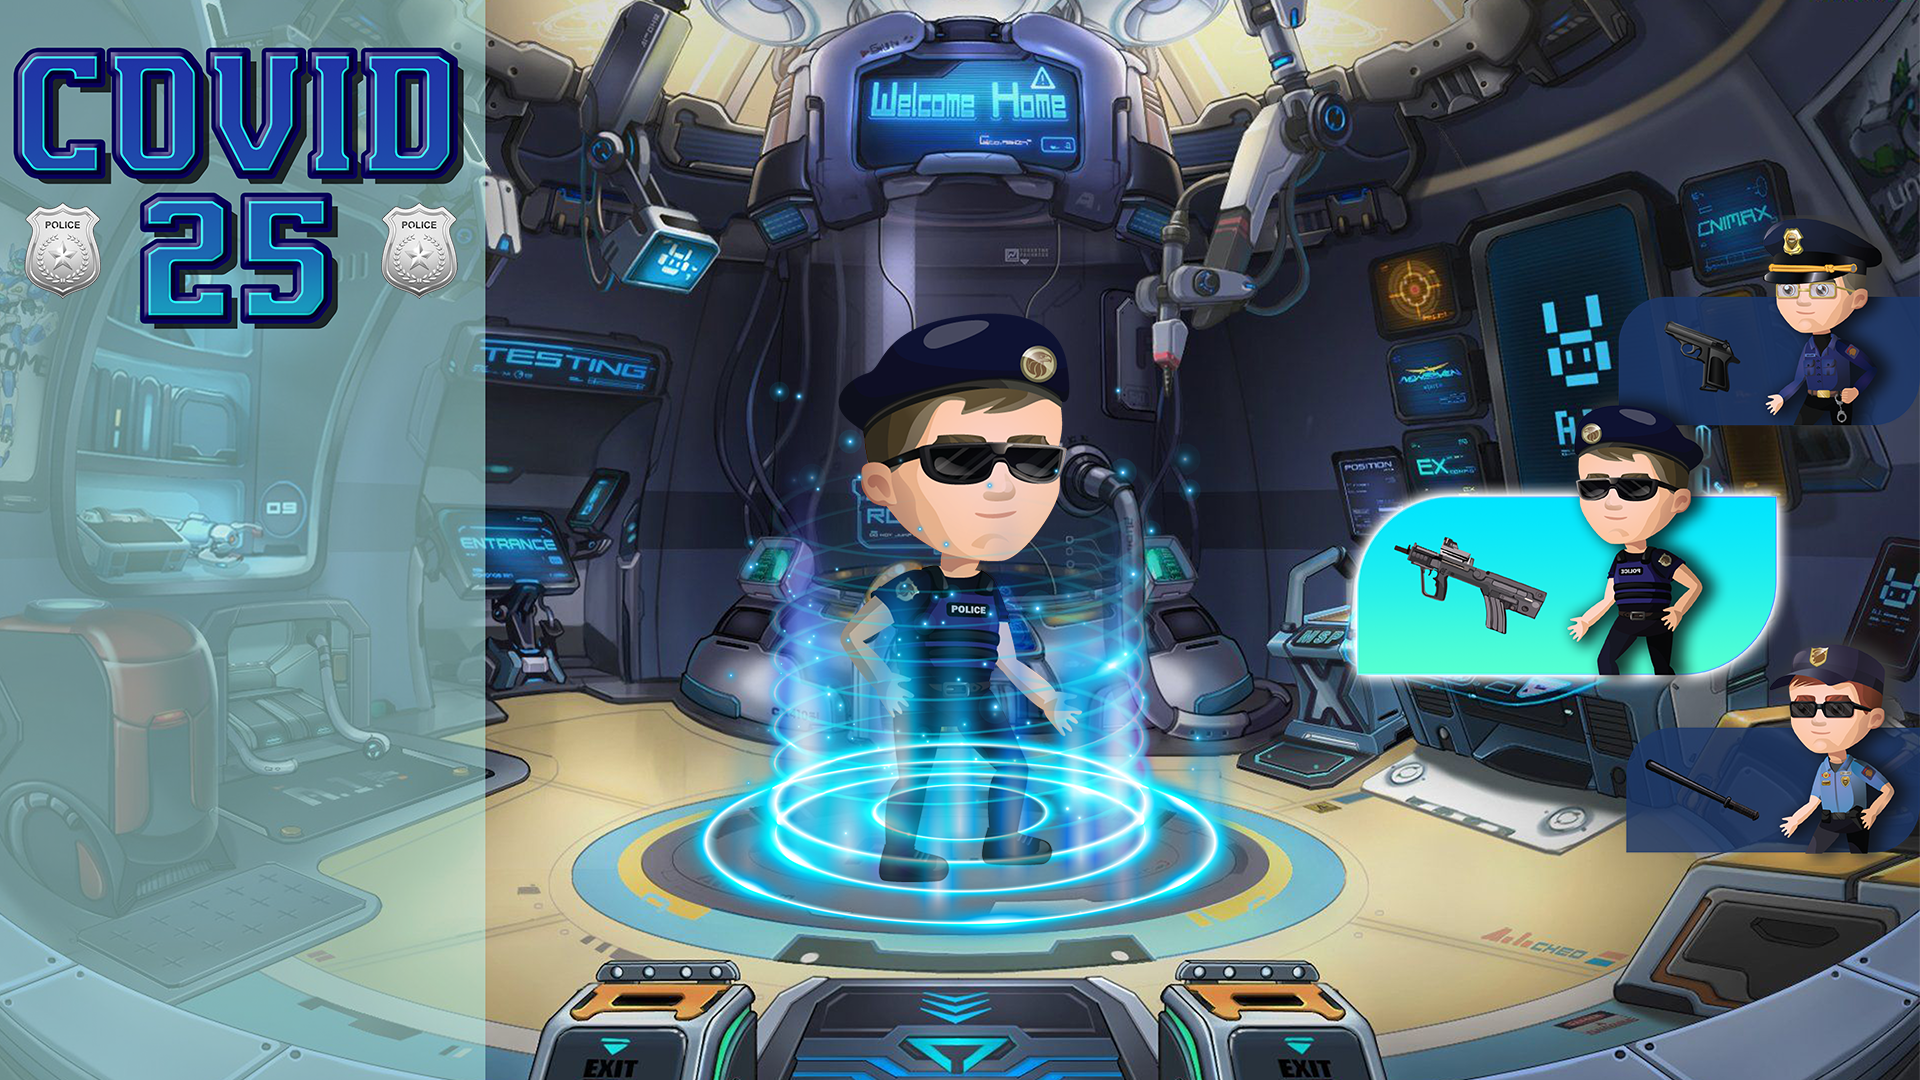
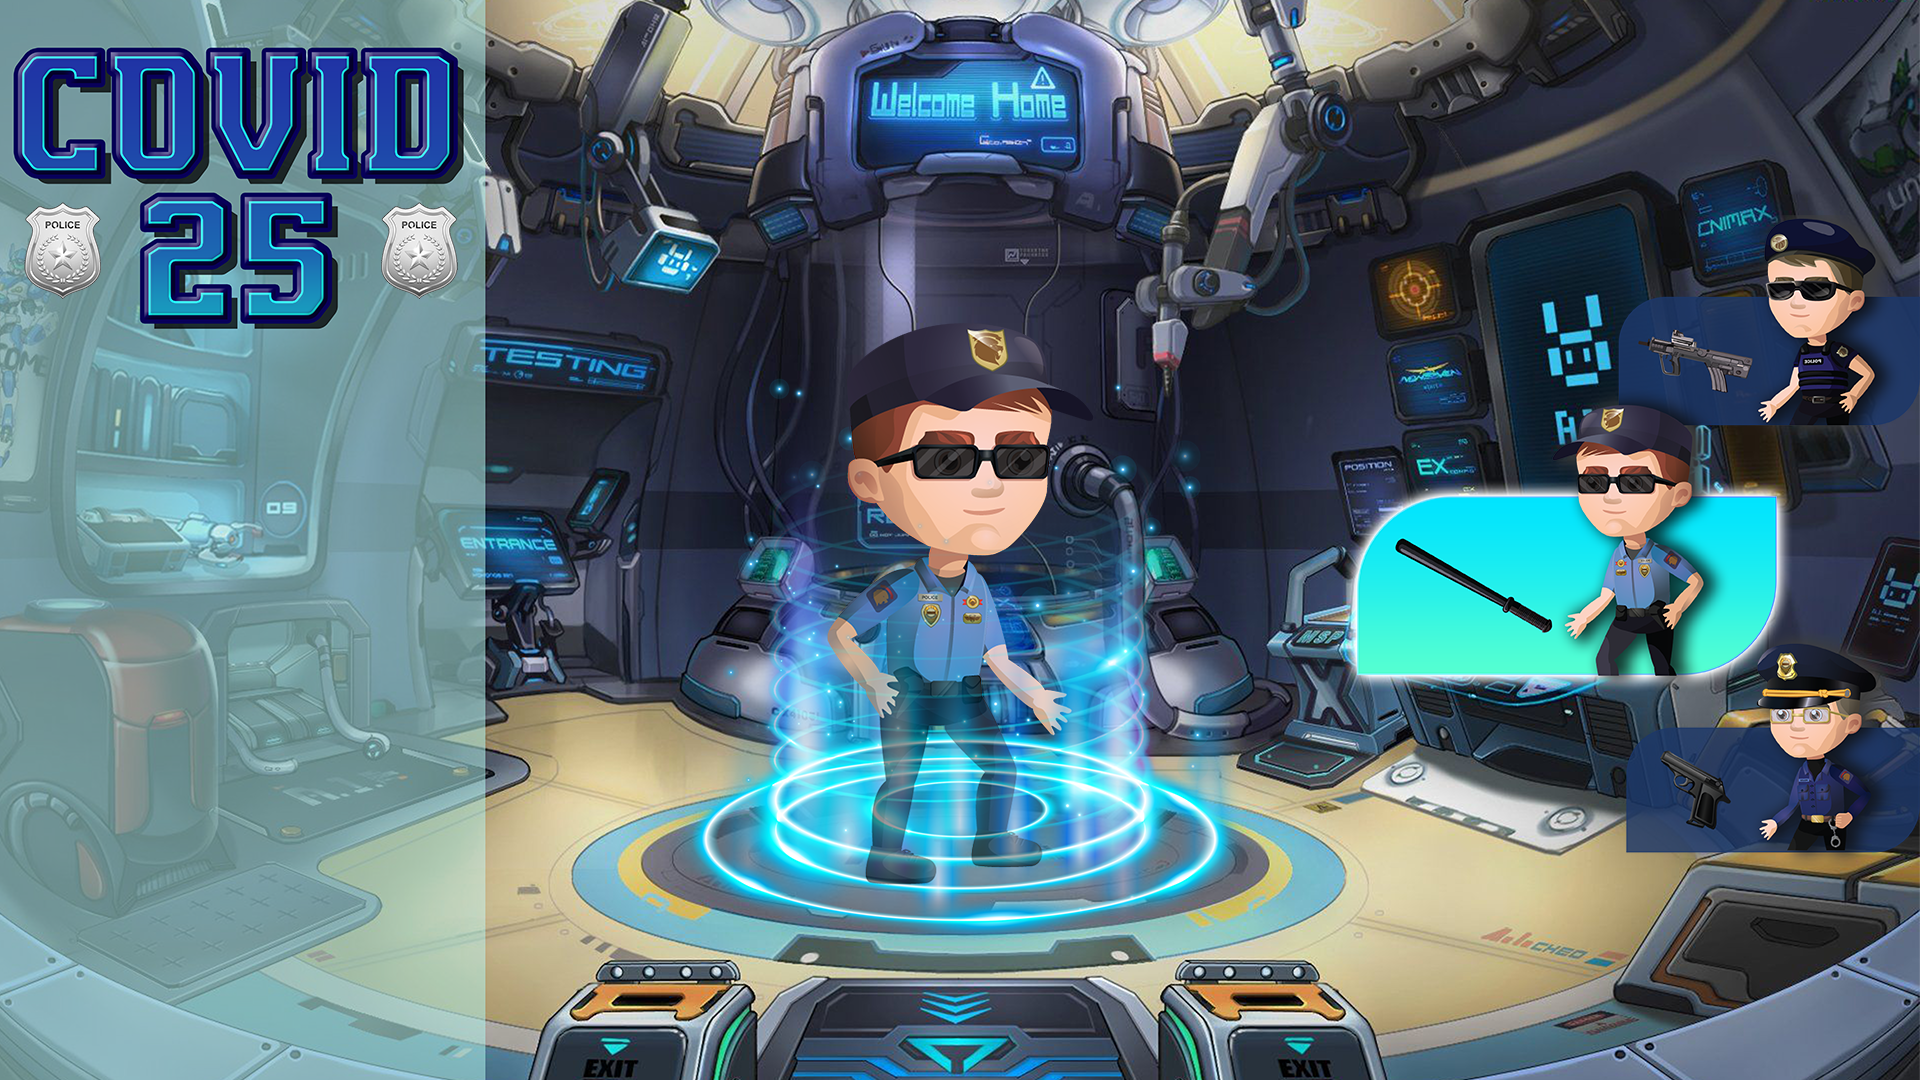
Update

diff --git a/main.c b/main.c
@@ -22,7 +22,6 @@ int main()
     Text tabMT[6];
     Text tabMAT[6], MoneyTxt;
 
-    char NomBackg[40];
     int i = 0, isRunning, iPred = 0;
     ;
     int last_frame_time = 0;
@@ -43,8 +42,9 @@ int main()
         {
             for (int j = 0; j < i + 1; j++)
             {
-                sprintf(NomBackg, "assets/MainMenu/Level-%d-Perso-%d.png", i + 1, j + 1);
-                InitBackg(&tabM[i][j], NomBackg);
+                sprintf(tabM[i][j].NameImg, "assets/MainMenu/Level-%d-Perso-%d.png", i + 1, j + 1);
+                printf("tabM :%s\n", tabM[i][j].NameImg);
+                InitBackg(&tabM[i][j], tabM[i][j].NameImg);
             }
         }
         if (Confg->Fullscr > 0)
@@ -218,6 +218,8 @@ int main()
                 break;
             case 4:
                 Shop(screen, Confg);
+                sprintf(MoneyTxt.Texte, "%d $", Confg->Money);
+                initTxt(&MoneyTxt, 1740 - (MoneyTxt.surfaceText->w / 3), 60, MoneyColor, 35, "assets/Font/AznKnucklesTrial-z85pa.otf", MoneyTxt.Texte);
                 AffichageMainMenu(screen, tabMT, tabMAT, tabM, i, Confg->LevelR, Confg->Player);
                 AfficherImg(MoneyImg, screen);
                 Afficher_txt(MoneyTxt, screen);

diff --git a/Game.c b/Game.c
@@ -2506,7 +2506,7 @@ void Shop(SDL_Surface *screen, Config *Confg)
 
     int isRunning = 1, x, y, posI = 0;
     Image Backg[3];
-    int ReqMoney[3] = {1000, 2000, 5000}, isBought[3] = {1, 0, 0};
+    int ReqMoney[3] = {1000, 2000, 5000};
     for (int i = 0; i < 3; i++)
     {
         sprintf(Backg[i].NameImg, "assets/Shop/Shop%d.jpg", i + 1);
@@ -2551,13 +2551,15 @@ void Shop(SDL_Surface *screen, Config *Confg)
             else if (x > 1144 && x < 1525 && y > 788 && y < 883)
             {
 
-                if (!isBought[posI])
+                if (Confg->LevelR == posI)
                 {
-                    if (Confg->Money > ReqMoney[posI])
+                    printf("Enter\n");
+                    if (Confg->Money >= ReqMoney[posI])
                     {
                         Confg->Money -= ReqMoney[posI];
-                        isBought[posI] = 1;
+                        Confg->LevelR = posI + 1;
                     }
+                    printf("Bought\n");
                 }
             }
             break;
